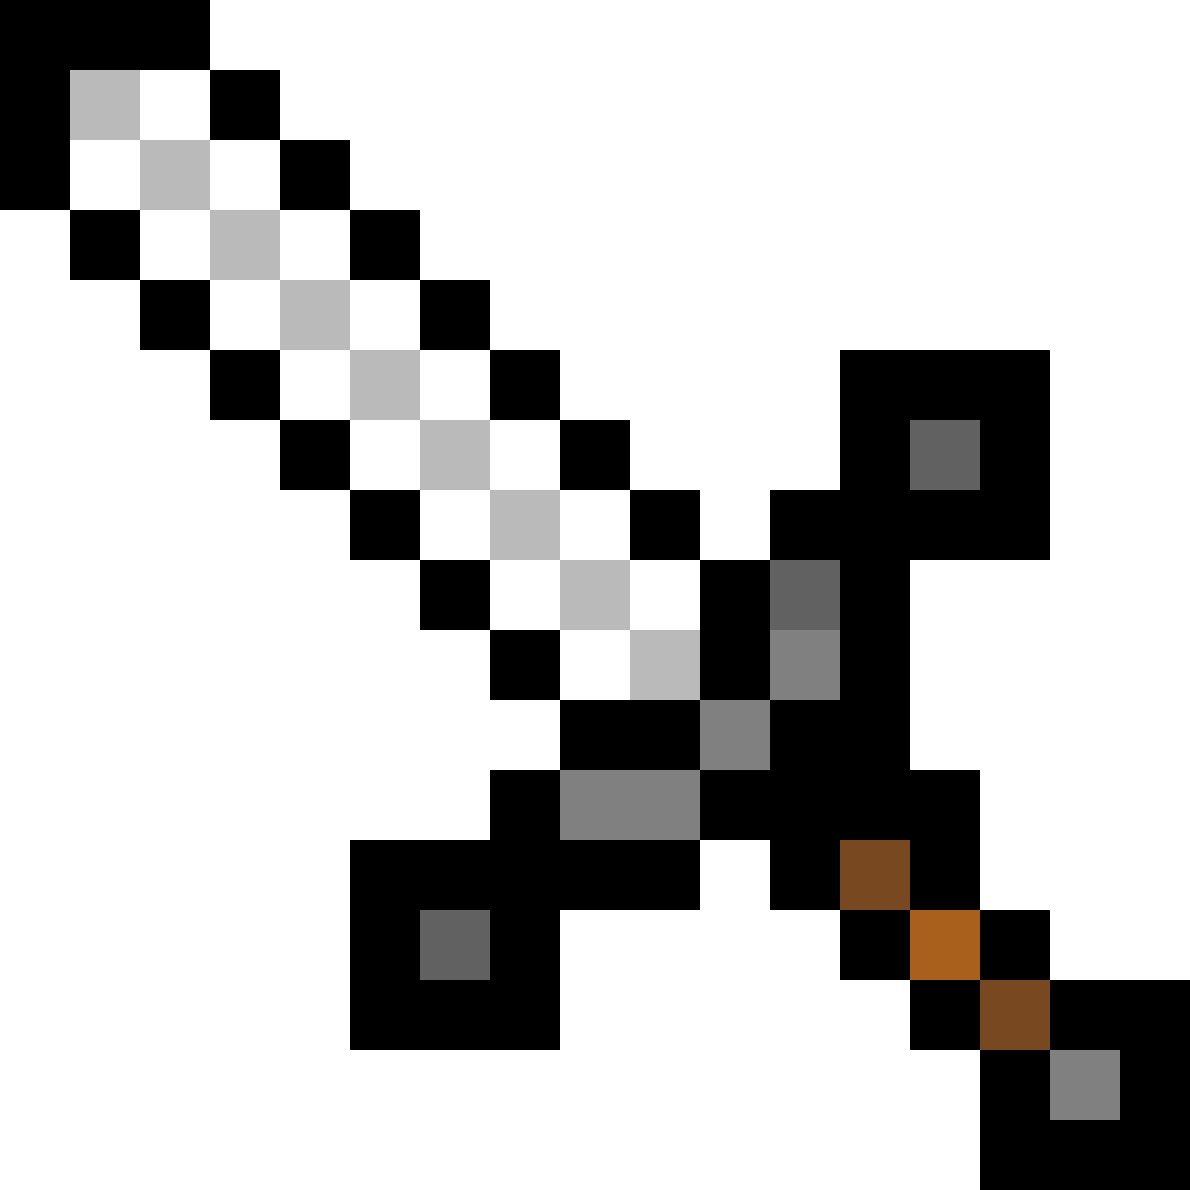
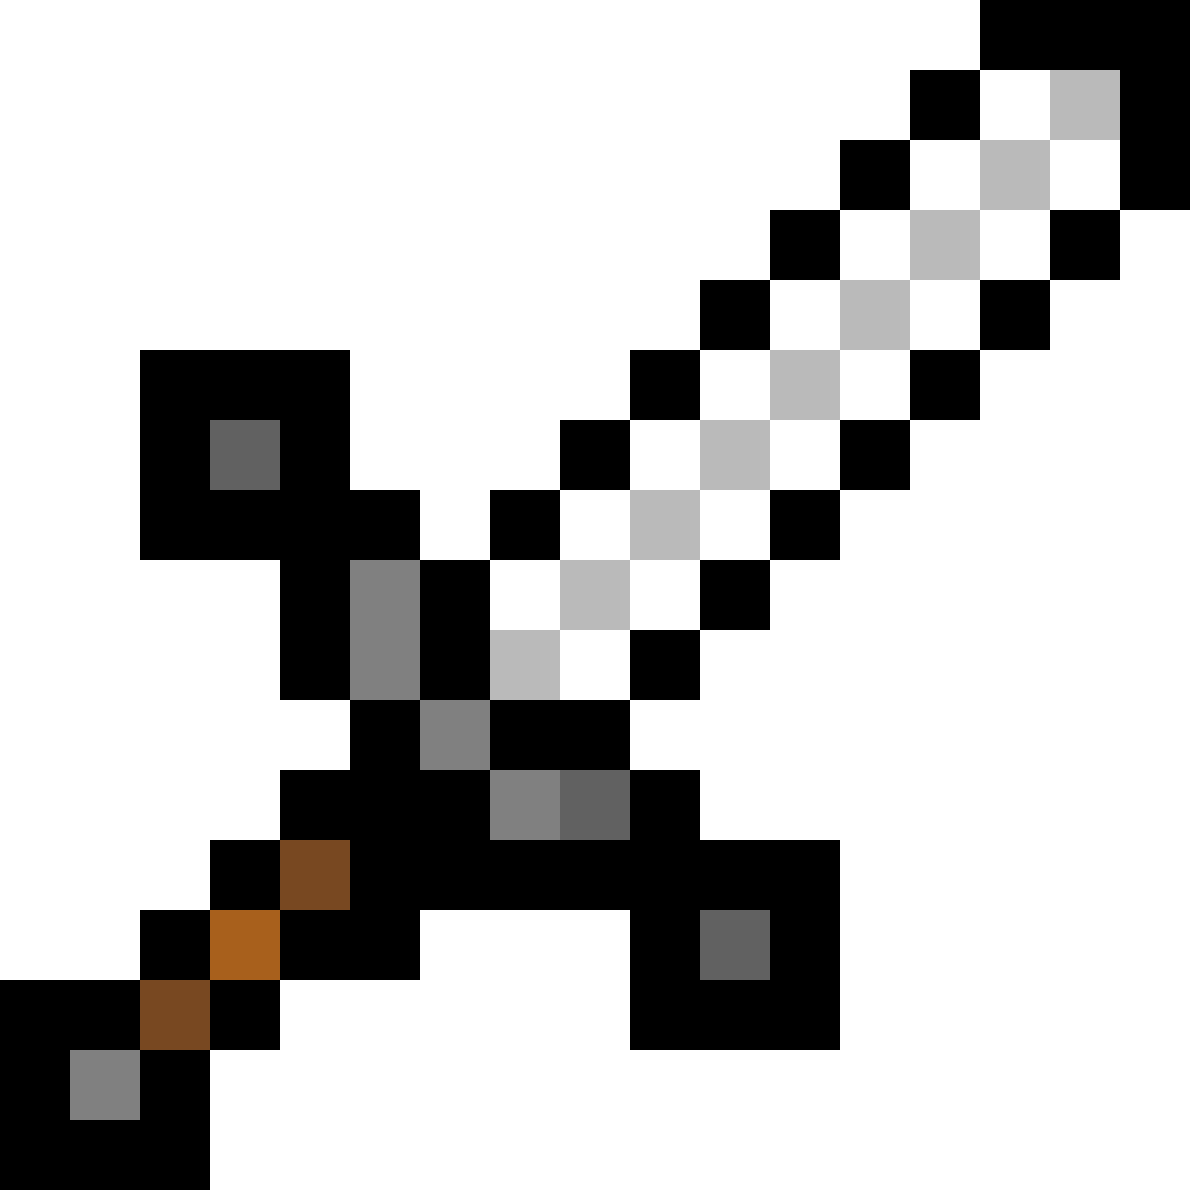
func to vreate board added

diff --git a/index.js b/index.js
@@ -1,0 +1,162 @@
+const bodyContainer = document.getElementsByClassName("body-container")[0]
+// console.log(bodyContainer)
+function createBoard() {
+    for (let i = 1; i <= 25; i++) {
+        for (let j = 1; j <= 40; j++) {
+            if ( i <= 8) {
+                const sky = document.createElement("div")
+                sky.classList.add("sky")
+                // console.log(sky)
+                bodyContainer.appendChild(sky)
+            } else if (i === 9) {
+                if ([6, 7, 17, 18, 25, 26].includes(j)) {
+                    const leaves = document.createElement("div");
+                    leaves.classList.add("leaves-gr")
+                    console.log(leaves);
+                    bodyContainer.appendChild(leaves)
+                } else {
+                    const sky = document.createElement("div");
+                    sky.classList.add("sky");
+                    bodyContainer.appendChild(sky);
+                }
+            } else if (i === 10) {
+                if ([5, 6, 7, 8, 16, 17, 18, 19, 24, 25, 26, 27].includes(j)) {
+                    const leaves = document.createElement("div");
+                    leaves.classList.add("leaves-gr");
+                    bodyContainer.appendChild(leaves);
+                } else {
+                    const sky = document.createElement("div");
+                    sky.classList.add("sky");
+                    bodyContainer.appendChild(sky);
+                }
+            } else if (i === 11) {
+                if (
+                    [4, 5, 6, 7, 8, 9, 15, 16, 17, 18, 19, 20, 23, 24, 25, 26, 27, 28].includes(j)) {
+                    const leaves = document.createElement("div");
+                    leaves.classList.add("leaves-gr");
+                    bodyContainer.appendChild(leaves);
+                } else if ([32, 34].includes(j)) {
+                    const creeperFace = document.createElement("div");
+                    creeperFace.classList.add("creeperFace");
+                    bodyContainer.appendChild(creeperFace);
+                } else {
+                    const sky = document.createElement("div");
+                    sky.classList.add("sky");
+                    bodyContainer.appendChild(sky);
+                }
+            } else if (i === 12) {
+                if ([17, 18, 25, 26].includes(j)) {
+                    const wood = document.createElement("div");
+                    wood.classList.add("wood")
+                    console.log(wood)
+                    bodyContainer.appendChild(wood)
+                } else if ([4, 5, 6, 7, 8, 9, 13].includes(j)) {
+                    const leaves = document.createElement("div");
+                    leaves.classList.add("leaves-gr");
+                    bodyContainer.appendChild(leaves)
+                } else if ([32, 34].includes(j)) {
+                    const creeperBody = document.createElement("div");
+                    creeperBody.classList.add("creeperBody");
+                    bodyContainer.appendChild(creeperBody);
+                } else if ([37].includes(j)) {
+                    const creeperFace = document.createElement("div");
+                    creeperFace.classList.add("creeperFace");
+                    bodyContainer.appendChild(creeperFace)
+                } else {
+                    const sky = document.createElement("div");
+                    sky.classList.add("sky");
+                    bodyContainer.appendChild(sky)
+                }
+
+            } else if (i === 13) {
+                if ([6, 7, 17, 18, 25, 26].includes(j)) {
+                    const wood = document.createElement("div");
+                    wood.classList.add("wood");
+                    bodyContainer.appendChild(wood);
+                } else if ([12, 13, 14].includes(j)) {
+                    const leaves = document.createElement("div");
+                    leaves.classList.add("leaves-gr");
+                    bodyContainer.appendChild(leaves);
+                } else if ([32, 34, 37].includes(j)) {
+                    const creeperBody = document.createElement("div");
+                    creeperBody.classList.add("creeperBody");
+                    bodyContainer.appendChild(creeperBody);
+                } else {
+                    const sky = document.createElement("div");
+                    sky.classList.add("sky");
+                    bodyContainer.appendChild(sky);
+                }
+
+            } else if (i === 14) {
+                if ([6, 7, 13, 17, 18, 25, 26].includes(j)) {
+                    const wood = document.createElement("div");
+                    wood.classList.add("wood");
+                    bodyContainer.appendChild(wood);
+                } else if ([32, 34, 37].includes(j)) {
+                    const creeperBody = document.createElement("div");
+                    creeperBody.classList.add("creeperBody");
+                    bodyContainer.appendChild(creeperBody);
+                } else {
+                    const sky = document.createElement("div");
+                    sky.classList.add("sky");
+                    bodyContainer.appendChild(sky);
+                }
+            } else if (i === 15) {
+                if ([6, 7, 13, 17, 18, 25, 26].includes(j)) {
+                    const wood = document.createElement("div");
+                    wood.classList.add("wood");
+                    bodyContainer.appendChild(wood);
+                } else if ([32, 34, 36, 38].includes(j)) {
+                    const creeperBody = document.createElement("div");
+                    creeperBody.classList.add("creeperBody");
+                    bodyContainer.appendChild(creeperBody);
+                } else {
+                    const sky = document.createElement("div");
+                    sky.classList.add("sky");
+                    bodyContainer.appendChild(sky);
+                }
+            } else if (i === 16) {
+                if ([6, 7, 13].includes(j)) {
+                    const wood = document.createElement("div");
+                    wood.classList.add("wood");
+                    bodyContainer.appendChild(wood);
+                } else if (j >= 16) {
+                    const grass = document.createElement("div");
+                    grass.classList.add("grass");
+                    bodyContainer.appendChild(grass)
+                } else {
+                    const sky = document.createElement("div");
+                    sky.classList.add("sky");
+                    bodyContainer.appendChild(sky);
+                } 
+            } else if (i >= 17 && i <= 19) {
+                    const soil = document.createElement("div");
+                    soil.classList.add("soil");
+                    bodyContainer.appendChild(soil);
+            } else if (i === 20) {
+                if (j <= 5) {
+                    const soil = document.createElement("div");
+                    soil.classList.add("soil");
+                    bodyContainer.appendChild(soil);
+                } else {
+                    const stone = document.createElement("div");
+                    stone.classList.add("stone");
+                    bodyContainer.appendChild(stone);
+                }
+            } else {
+                const stone = document.createElement("div");
+                stone.classList.add("stone");
+                bodyContainer.appendChild(stone);
+            }
+        }
+    }
+}
+
+
+function LotteryOfStones() {
+    const stons = document.getElementsByClassName("./stone")
+}
+
+
+
+createBoard()

diff --git a/index.css b/index.css
@@ -25,11 +25,11 @@
 .h3 {
   background-color: rgb(119, 118, 118);
   color: wheat;
-  padding: 1rem 2rem;
+  padding: 1px 2px;
 }
 
 button {
-  padding: 1re 2rm;
+  padding: 1px 3px;
   background-color: rgb(143, 142, 142);
 }
 
@@ -40,8 +40,8 @@ button {
 
 .box {
   background-image: url('./img/box.png');
-  height: 7.5rem;
-  width: 7.5rem;
+  height: 7px;
+  width: 7px;
 }
 
 .tool {
@@ -72,3 +72,47 @@ button {
   width: 4rem;
   background-image: url('./img/pickaxe.png');
 }
+
+
+
+/* ---- the elements to --- */
+.sky {
+  background-color: #87ceeb;
+}
+
+.stone {
+  background-image: url('./img/Stone.jpg');
+}
+
+
+.coal {
+  background-image: url("./img/coal.png");
+}
+.creeperBody {
+  background-image: url("./img/creeperBody.png");
+}
+.creeperFace {
+  background-image: url("./img/creeperFace.png");
+}
+.gold {
+  background-image: url("./img/gold.png");
+}
+.grass {
+  background-image: url("./img/grass.png");
+}
+.leaves-gr {
+  background-image: url("./img/leaves-gr.png");
+}
+.redstone {
+  background-image: url("./img/redstone.jpeg");
+}
+.soil {
+  background-image: url("./img/soil.png");
+}
+.wood {
+  background-image: url("./img/wood.png");
+}
+.diamond {
+  background-image: url("./img/diamond.png");
+}
+

diff --git a/index.html b/index.html
@@ -3,7 +3,7 @@
   <head>
     <meta charset="UTF-8" />
     <meta name="viewport" content="width=device-width, initial-scale=1.0" />
-    <link rel="stylesheet" href="index.css" />
+    <link rel="stylesheet" href="index.css"  />
     <script src="index.js" defer></script>
     <title>Minecraft</title>
   </head>
@@ -17,11 +17,6 @@
           <div class="shovel tool"></div>
           <div class="pickaxe tool"></div>
           <div class="sword tool"></div>
-            <!-- <button id="box"><img src="img/box.png" alt=""></button>
-            <button id="axe"><img src="img/axe.png" alt=""></button>
-            <button id="shovel"><img src="img/shovel.png" alt=""></button>
-            <button id="picaxe"><img src="img/pickaxe.png" alt=""></button>
-            <button id="sword"><img src="img/sword.png" alt=""></button> -->
         </div>
         <button>Reset Game</button>
     </footer>
